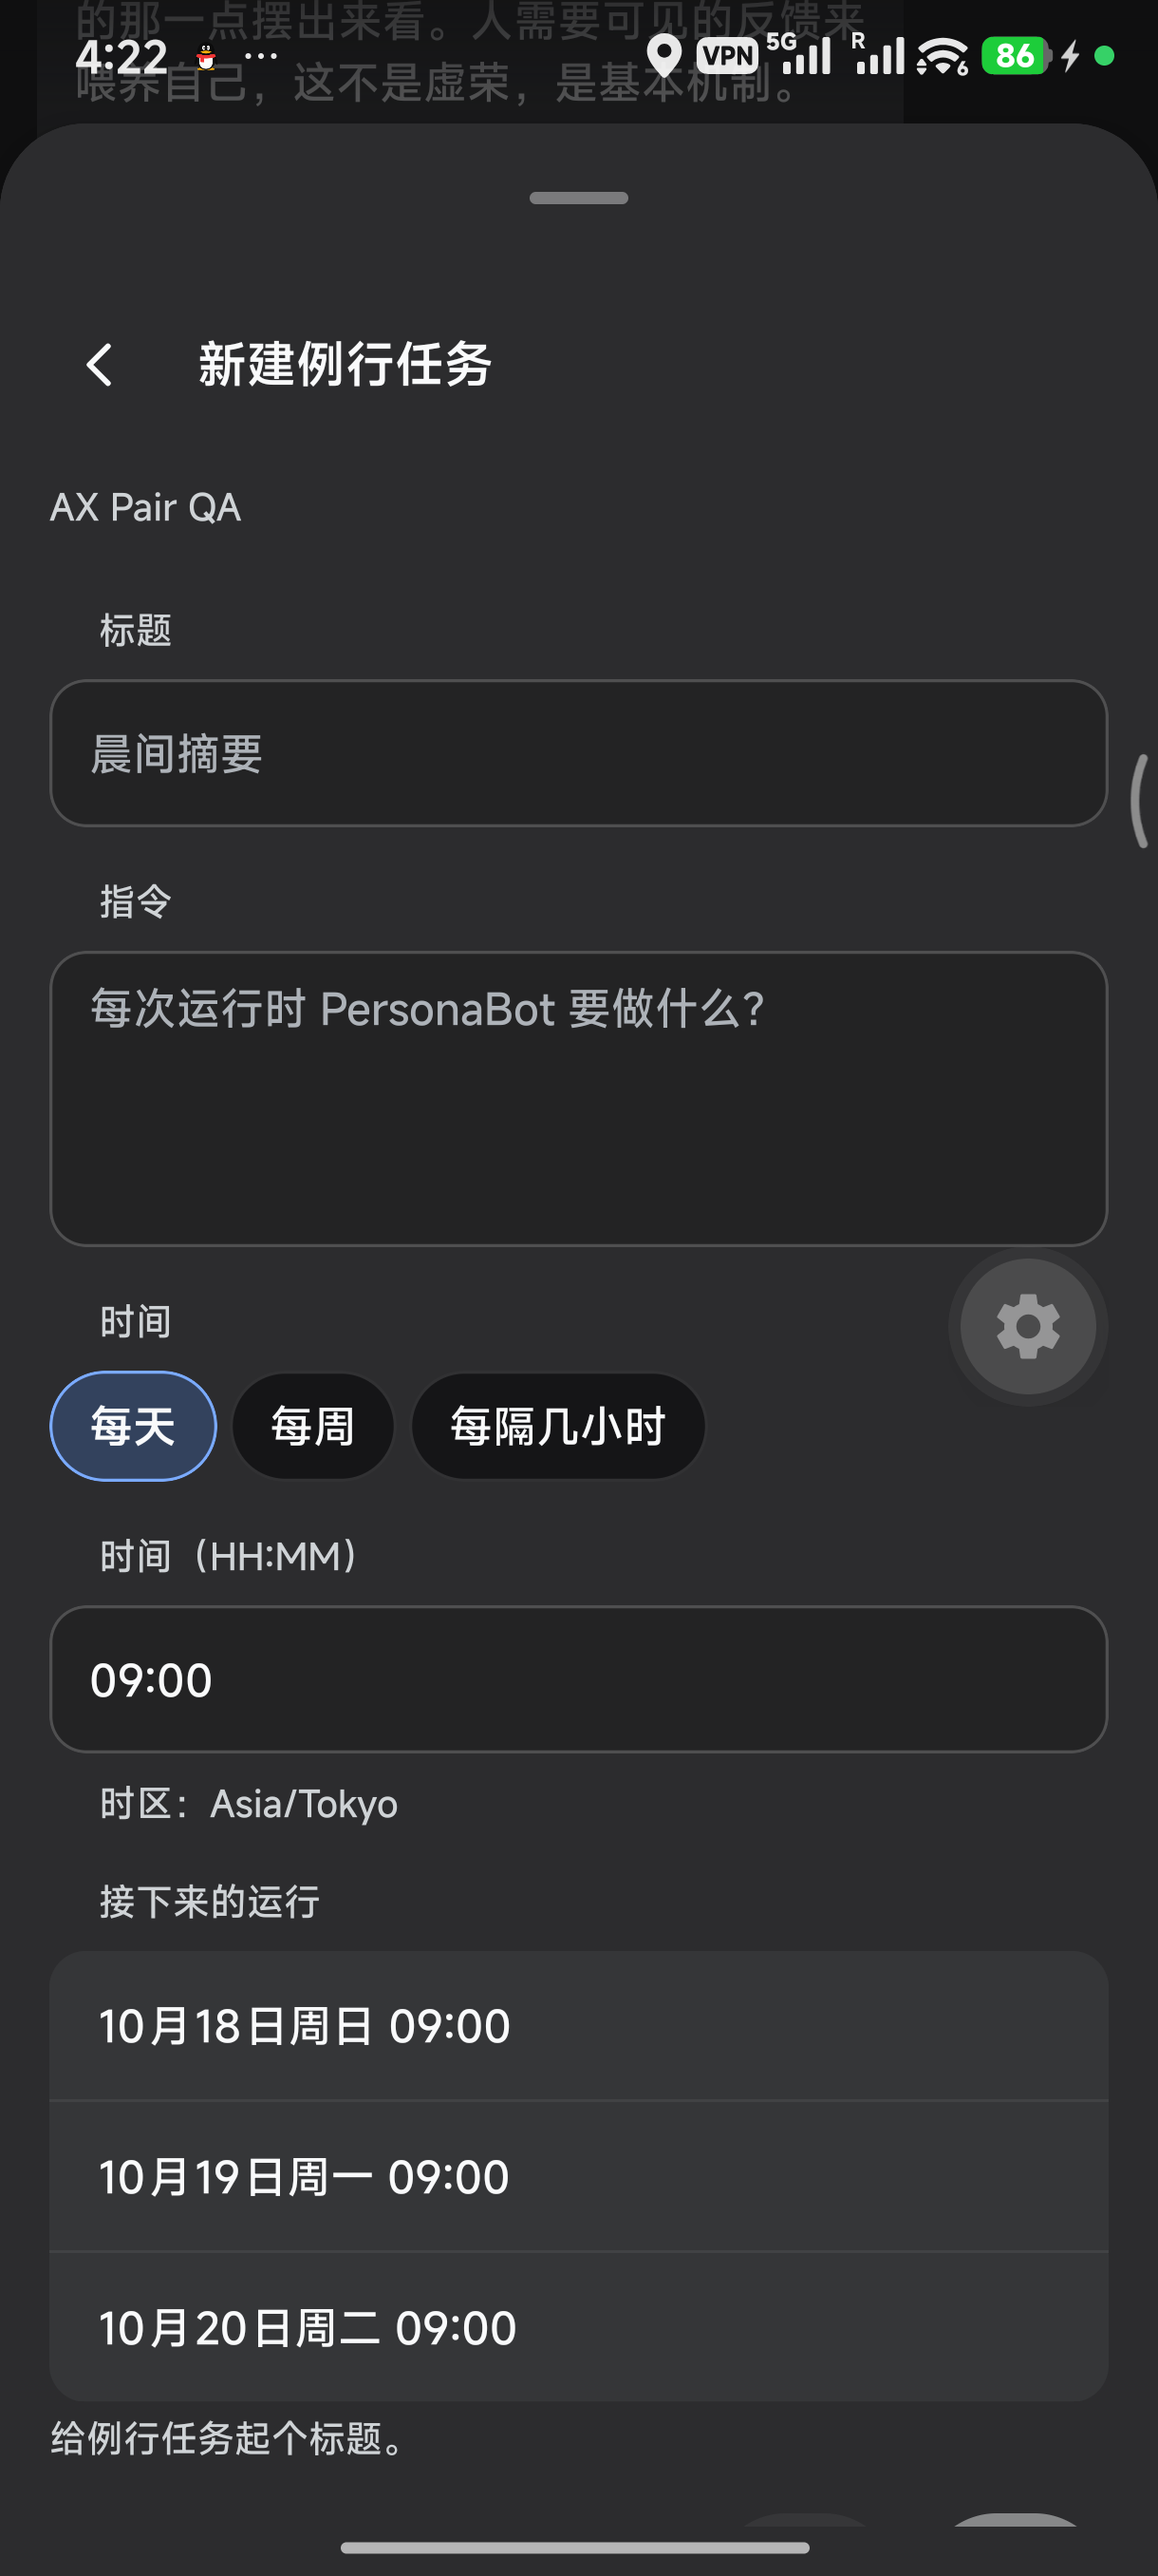
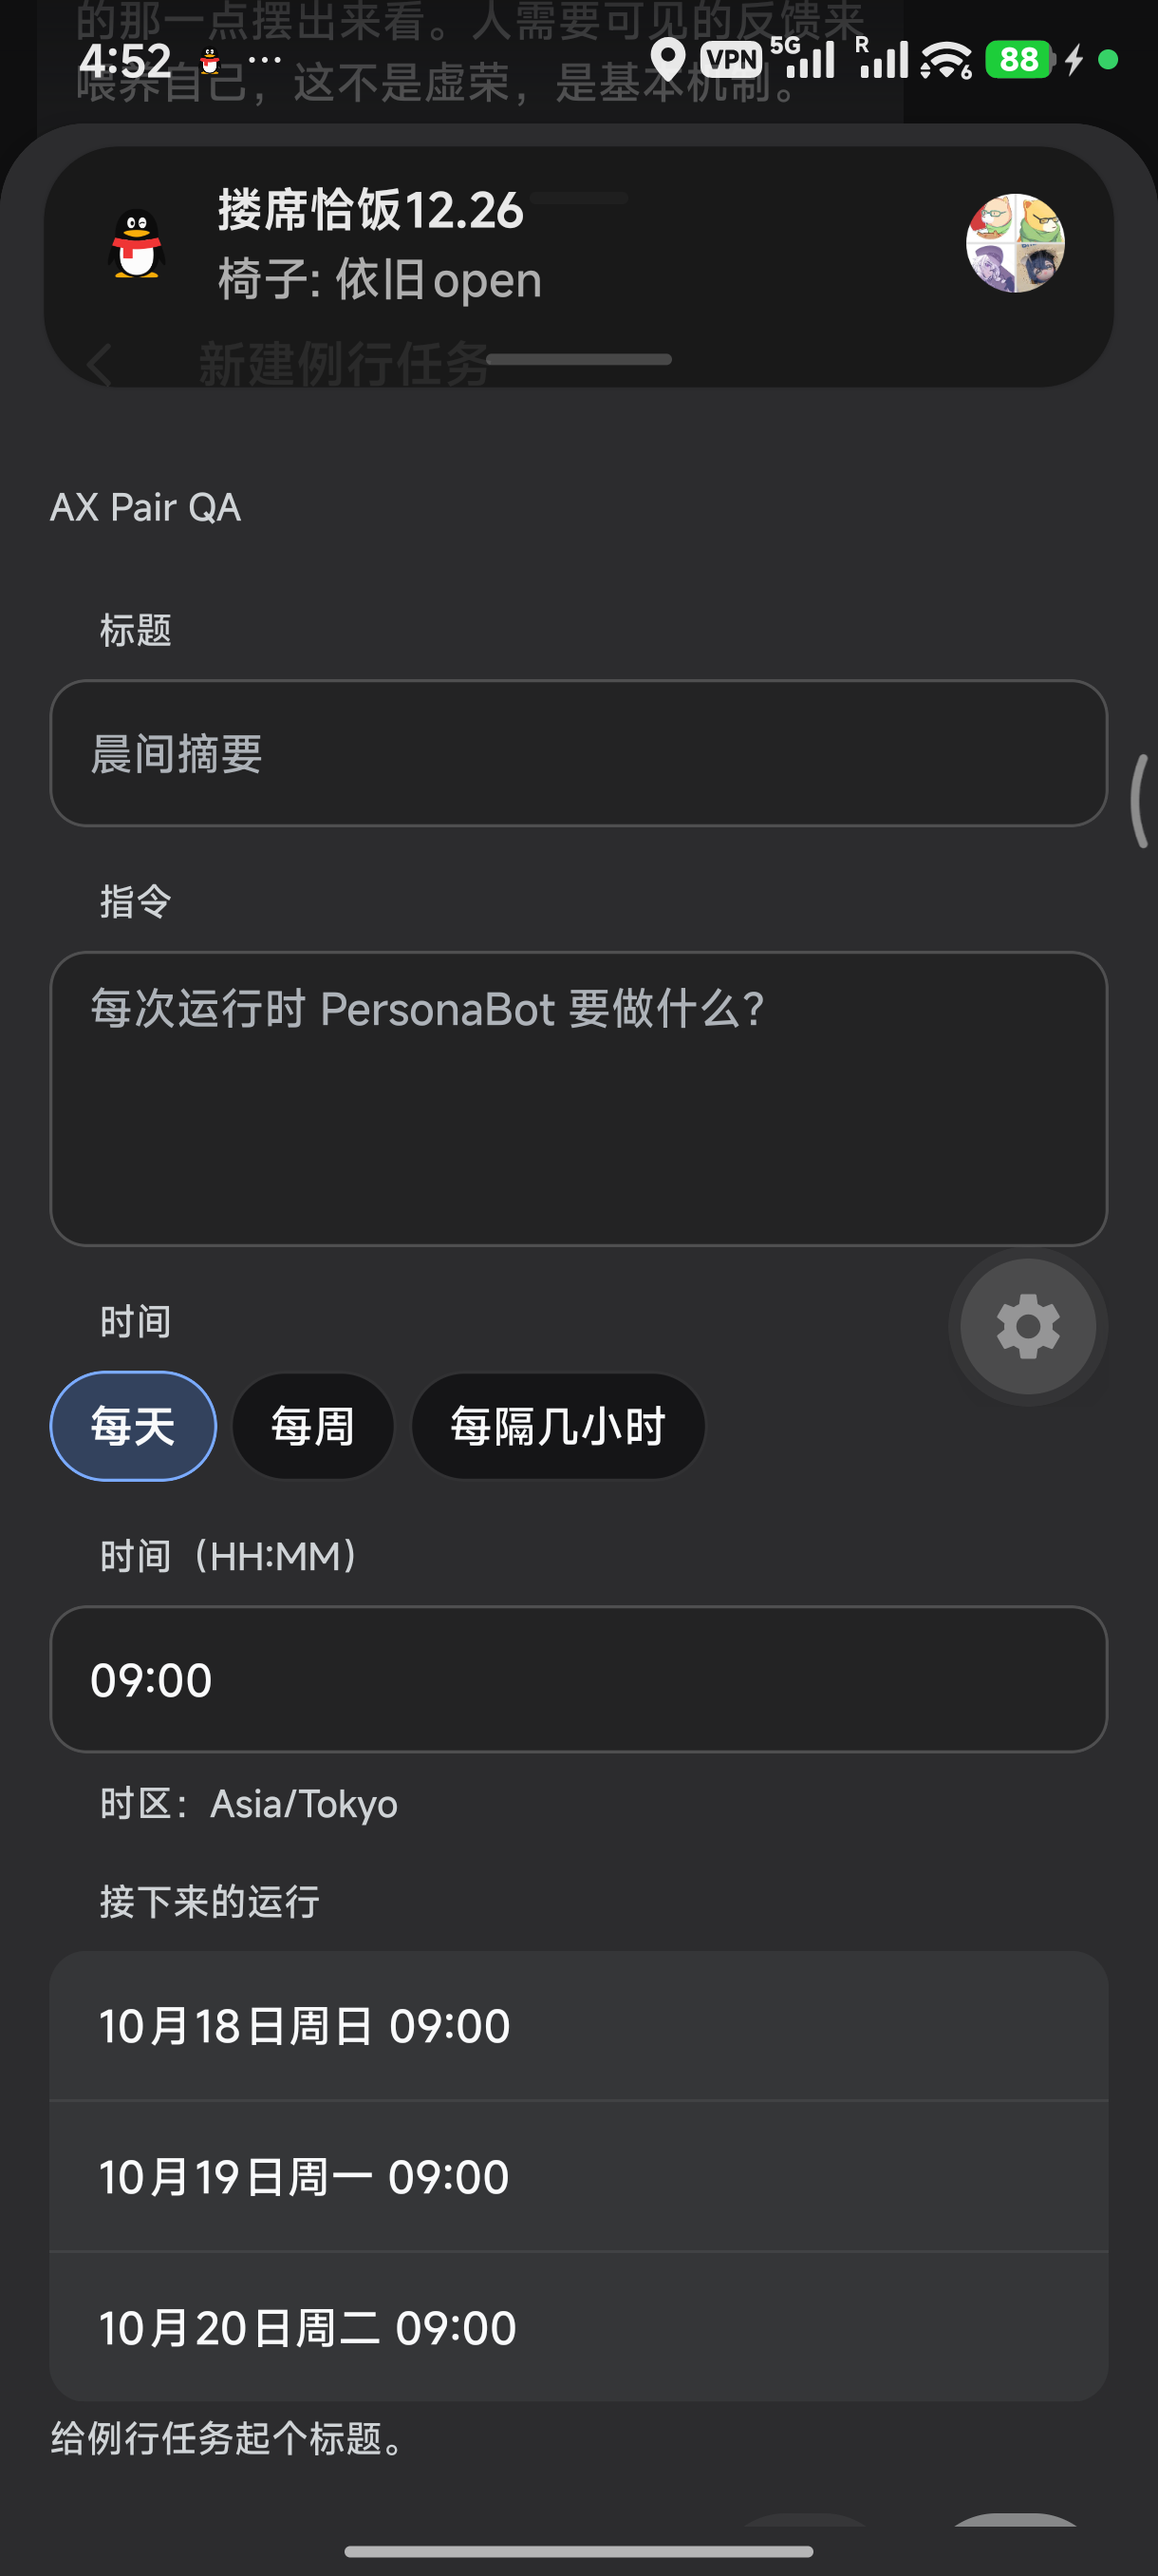
fix(mobile): complete reusable drawer navigation and acceptance
Issue: #2028

Agent-Task: codex/local/01a145e7-8579-7ec3-b958-d3bef00fc347

diff --git a/apps/mobile/app/notifications.tsx b/apps/mobile/app/notifications.tsx
@@ -1,41 +1,1 @@
-import { useMemo } from 'react';
-import { Linking } from 'react-native';
-
-import {
-  hostPush,
-  hostSession,
-  useHostSession,
-  usePushStatus,
-  pushSession,
-} from '../src/host/host-session';
-import {
-  NotificationSettings,
-  type NotificationSettingsPort,
-} from '../src/ui/notification-settings';
-
-export default function NotificationsScreen() {
-  const { saved } = useHostSession();
-  const status = usePushStatus();
-  const port = useMemo<NotificationSettingsPort | undefined>(
-    () =>
-      saved === null || saved === undefined
-        ? undefined
-        : {
-            load: () => hostPush.settings(saved),
-            set: (preferences) => hostPush.setPreferences(saved, preferences),
-            test: () => hostPush.test(saved),
-          },
-    [saved],
-  );
-  if (saved === null || saved === undefined || port === undefined) return null;
-  return (
-    <NotificationSettings
-      status={status}
-      hostName={saved.hostName}
-      port={port}
-      onEnable={() => void pushSession.enable(hostSession.getState().hosts)}
-      onOpenSettings={() => void Linking.openSettings()}
-      key={saved.hostId}
-    />
-  );
-}
+export { default } from '../src/ui/shell/notification-screen';

diff --git a/apps/mobile/src/ui/shell/notification-screen.tsx b/apps/mobile/src/ui/shell/notification-screen.tsx
@@ -1,0 +1,38 @@
+import { useMemo } from 'react';
+import { Linking } from 'react-native';
+
+import {
+  hostPush,
+  hostSession,
+  useHostSession,
+  usePushStatus,
+  pushSession,
+} from '../../host/host-session';
+import { NotificationSettings, type NotificationSettingsPort } from '../notification-settings';
+
+export default function NotificationsScreen() {
+  const { saved } = useHostSession();
+  const status = usePushStatus();
+  const port = useMemo<NotificationSettingsPort | undefined>(
+    () =>
+      saved === null || saved === undefined
+        ? undefined
+        : {
+            load: () => hostPush.settings(saved),
+            set: (preferences) => hostPush.setPreferences(saved, preferences),
+            test: () => hostPush.test(saved),
+          },
+    [saved],
+  );
+  if (saved === null || saved === undefined || port === undefined) return null;
+  return (
+    <NotificationSettings
+      status={status}
+      hostName={saved.hostName}
+      port={port}
+      onEnable={() => void pushSession.enable(hostSession.getState().hosts)}
+      onOpenSettings={() => void Linking.openSettings()}
+      key={saved.hostId}
+    />
+  );
+}

diff --git a/apps/mobile/app/bot/[slug]/index.tsx b/apps/mobile/app/bot/[slug]/index.tsx
@@ -48,11 +48,11 @@ export default function BotProfileScreen() {
       actions={{
         onOpenRoutine: (routine) =>
           router.push({
-            pathname: '/bot/[slug]/routine',
+            pathname: '/bot/[slug]/routine/[id]',
             params: { slug: bot.slug, id: routine.id },
           }),
         onNewRoutine: () =>
-          router.push({ pathname: '/bot/[slug]/routine', params: { slug: bot.slug } }),
+          router.push({ pathname: '/bot/[slug]/routine-new', params: { slug: bot.slug } }),
         onMessage: () => (router.canGoBack() ? router.back() : router.replace(`/dm/${bot.slug}`)),
         ...(bot.browserAccess
           ? {
@@ -72,7 +72,8 @@ export default function BotProfileScreen() {
                 }),
             }
           : {}),
-        onNotifications: () => router.push('/notifications'),
+        onNotifications: () =>
+          router.push({ pathname: '/bot/[slug]/notifications', params: { slug: bot.slug } }),
         onOpenActivity: () =>
           router.push({ pathname: '/bot/[slug]/activity', params: { slug: bot.slug } }),
         onOpenMemory: (entry) =>

diff --git a/apps/mobile/src/ui/notification-settings.tsx b/apps/mobile/src/ui/notification-settings.tsx
@@ -78,8 +78,9 @@ export function NotificationSettings({
   return (
     <ScrollView
       ref={mount}
+      nestedScrollEnabled
       contentInsetAdjustmentBehavior="automatic"
-      style={{ backgroundColor: theme.color.base }}
+      style={{ backgroundColor: theme.overlay.fill }}
       contentContainerStyle={{ padding: space.x5, gap: space.x5 }}
     >
       <Text variant="meta" tone="muted">
@@ -117,9 +118,10 @@ export function NotificationSettings({
           <Text accessibilityRole="header" variant="meta" tone="muted" strong>
             {t.notifyAbout}
           </Text>
-          <SettingsSection>
+          <SettingsSection on="raised">
             {PUSH_KINDS.map((kind) => (
               <SettingsRow
+                on="raised"
                 key={kind}
                 title={t.pushKind[kind]}
                 trailing={

diff --git a/apps/mobile/app/bot/[slug]/_layout.tsx b/apps/mobile/app/bot/[slug]/_layout.tsx
@@ -1,4 +1,5 @@
 import { Stack } from 'expo-router';
+import { t } from '../../../src/ui/strings';
 import { SheetStack } from '../../../src/ui/primitives/sheet-stack';
 
 export default function BotProfileLayout() {
@@ -7,10 +8,12 @@ export default function BotProfileLayout() {
       <Stack.Screen name="index" options={{ headerShown: false }} />
       <Stack.Screen name="memory" />
       <Stack.Screen name="activity" />
-      <Stack.Screen name="routine" />
-      <Stack.Screen name="routine-edit" />
+      <Stack.Screen name="routine/[id]" />
+      <Stack.Screen name="routine-new" />
+      <Stack.Screen name="routine-edit/[id]" />
       <Stack.Screen name="model" />
       <Stack.Screen name="workspace" />
+      <Stack.Screen name="notifications" options={{ title: t.notifications }} />
     </SheetStack>
   );
 }

diff --git a/apps/mobile/src/ui/chat/routine-screen.tsx b/apps/mobile/src/ui/chat/routine-screen.tsx
@@ -77,7 +77,7 @@ export function RoutineScreen({ edit = false }: { edit?: boolean }) {
             onChanged={() => undefined}
             onClose={() => router.back()}
             onEdit={() =>
-              router.push({ pathname: '/bot/[slug]/routine-edit', params: { slug, id: id! } })
+              router.push({ pathname: '/bot/[slug]/routine-edit/[id]', params: { slug, id: id! } })
             }
             onOpenFullClient={() =>
               router.push({

diff --git a/apps/mobile/app/settings/index.tsx b/apps/mobile/app/settings/index.tsx
@@ -42,7 +42,7 @@ export default function SettingsScreen() {
           openHostDrawer();
         },
         onAppIcon: () => router.push('/settings/app-icon'),
-        onNotifications: () => router.push('/notifications'),
+        onNotifications: () => router.push('/settings/notifications'),
         onCopyVersion: copyMessage,
         onUnpair: () => hostSession.unpair().then(() => router.dismissTo('/')),
       }}

diff --git a/apps/mobile/app/settings/_layout.tsx b/apps/mobile/app/settings/_layout.tsx
@@ -8,6 +8,7 @@ export default function SettingsLayout() {
       <Stack.Screen name="index" options={{ headerShown: false }} />
       <Stack.Screen name="usage" options={{ title: t.usage }} />
       <Stack.Screen name="app-icon" options={{ title: t.appIcon }} />
+      <Stack.Screen name="notifications" options={{ title: t.notifications }} />
     </SheetStack>
   );
 }

diff --git a/apps/mobile/app/bot/[slug]/routine-edit/[id].tsx b/apps/mobile/app/bot/[slug]/routine-edit/[id].tsx
@@ -1,4 +1,4 @@
-import { RoutineScreen } from '../../../src/ui/chat/routine-screen';
+import { RoutineScreen } from '../../../../src/ui/chat/routine-screen';
 
 export default function RoutineEditScreen() {
   return <RoutineScreen edit />;

diff --git a/apps/mobile/app/bot/[slug]/routine/[id].tsx b/apps/mobile/app/bot/[slug]/routine/[id].tsx
@@ -1,0 +1,1 @@
+export { RoutineScreen as default } from '../../../../src/ui/chat/routine-screen';

diff --git a/apps/mobile/app/bot/[slug]/notifications.tsx b/apps/mobile/app/bot/[slug]/notifications.tsx
@@ -1,0 +1,1 @@
+export { default } from '../../../src/ui/shell/notification-screen';

diff --git a/apps/mobile/app/settings/notifications.tsx b/apps/mobile/app/settings/notifications.tsx
@@ -1,0 +1,1 @@
+export { default } from '../../src/ui/shell/notification-screen';
